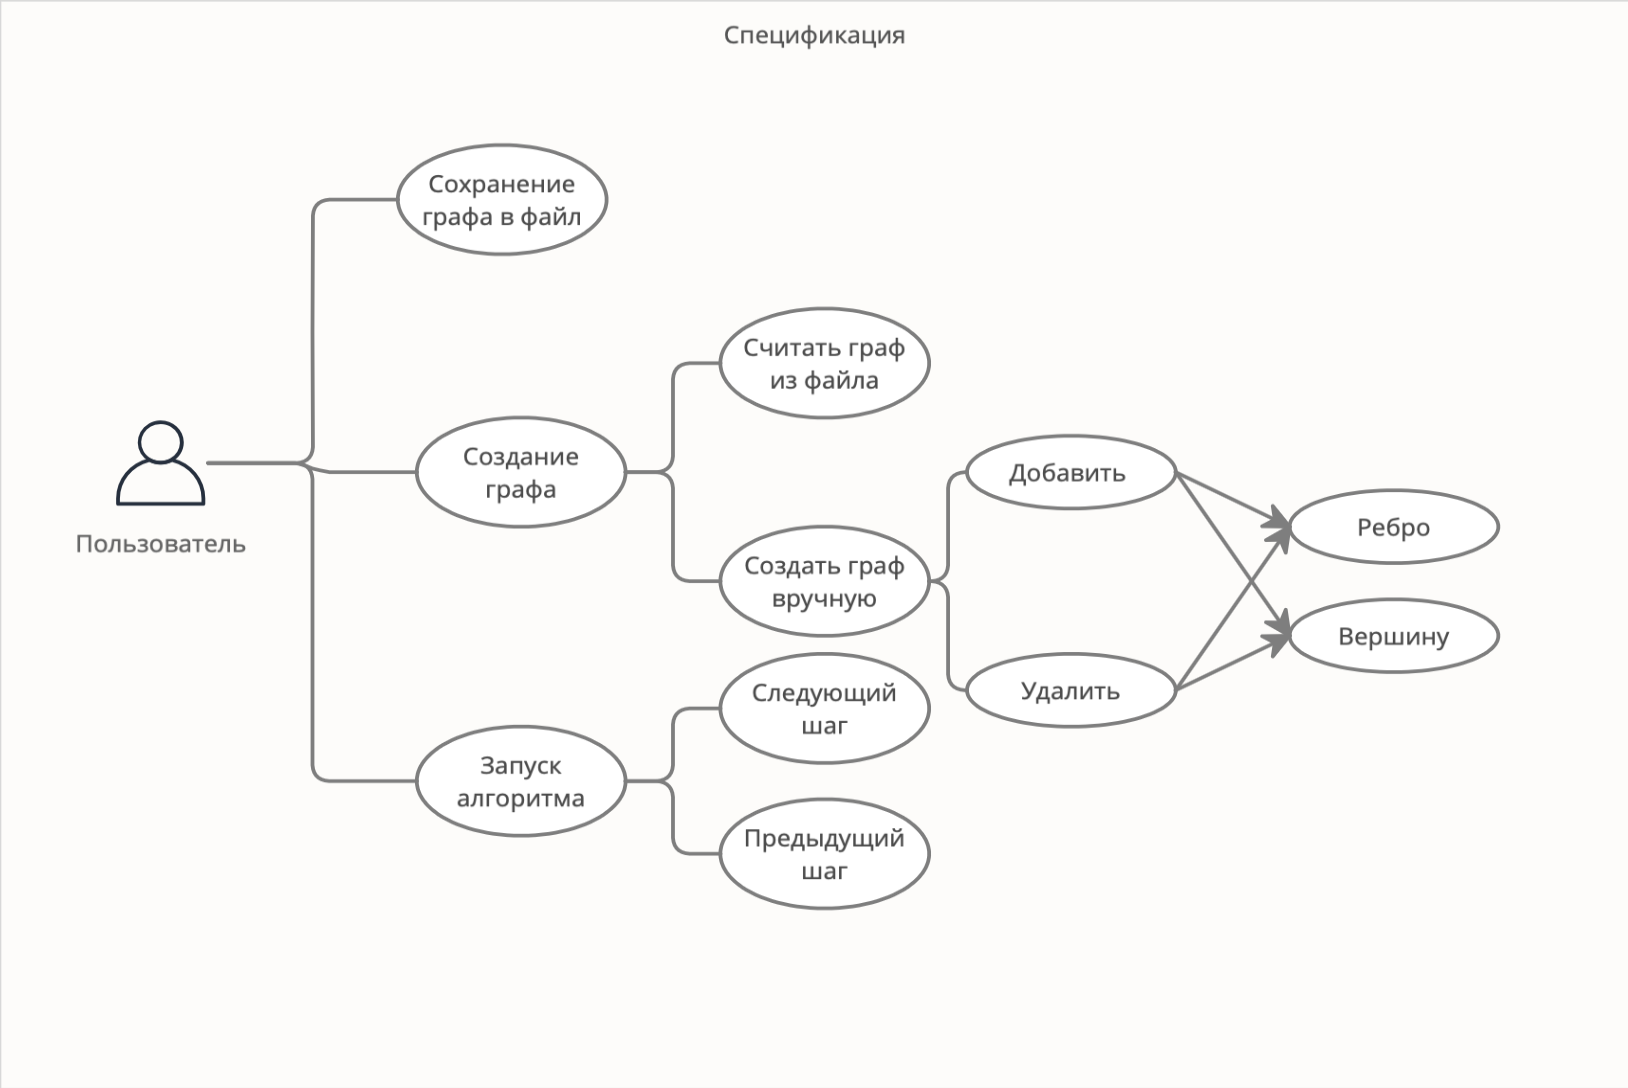
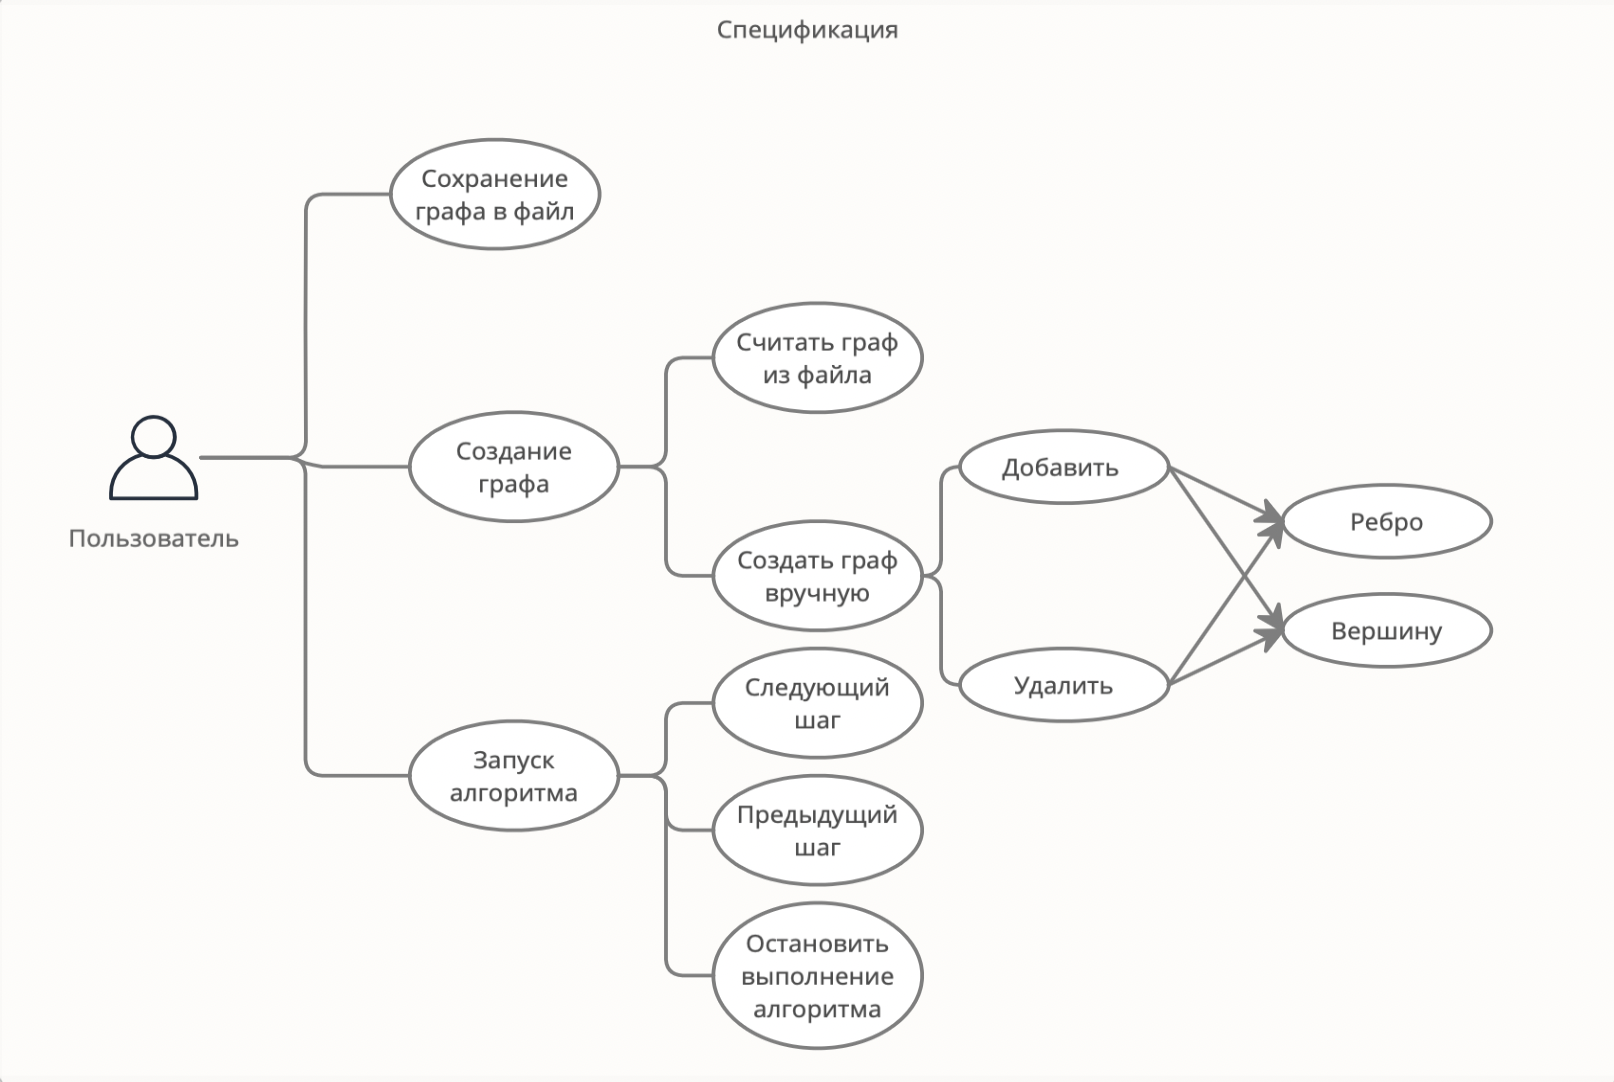
update specification + add prototype

diff --git a/src/com/company/GUI.java b/src/com/company/GUI.java
@@ -1,0 +1,143 @@
+package com.company;
+
+import javax.swing.*;
+import javax.swing.border.LineBorder;
+import javax.swing.text.DefaultEditorKit;
+import java.awt.*;
+
+
+public class GUI extends JFrame {
+    private JPanel main_panel;
+    private JPanel graph_panel;
+    private JLabel status_text;
+    private int window_width;
+    private int window_height;
+
+    public GUI() {
+        super("Алгоритм Дейкстры");
+        set_ui();
+        this.pack();
+        this.setVisible(true);
+    }
+
+    private void set_ui() {
+        Dimension screenSize = Toolkit.getDefaultToolkit().getScreenSize();
+        this.window_width = (int)screenSize.getWidth();
+        this.window_height = (int)screenSize.getHeight();
+
+        setMinimumSize(new Dimension(this.window_width/2, this.window_height/2));
+        setDefaultCloseOperation(JFrame.EXIT_ON_CLOSE);
+
+        init_main_panel();
+    }
+
+    private void init_main_panel() {
+        main_panel = new JPanel();
+        main_panel.setLayout(new BoxLayout(main_panel, BoxLayout.X_AXIS));
+        main_panel.add(init_graph_panel());
+        add(main_panel);
+        add(init_tool_bar(), BorderLayout.WEST);
+        add(init_status_panel(), BorderLayout.SOUTH);
+        setJMenuBar(init_menu());
+    }
+
+
+    private JPanel init_graph_panel() {
+        graph_panel = new JPanel();
+        graph_panel.setBackground(Color.WHITE);
+        graph_panel.setBorder(new LineBorder(new Color(230, 230, 230)));
+        return graph_panel;
+    }
+
+
+    private JPanel init_status_panel() {
+        JPanel statusPanel = new JPanel();
+        statusPanel.setPreferredSize(new Dimension(getWidth(), 42));
+        statusPanel.setLayout(new BoxLayout(statusPanel, BoxLayout.X_AXIS));
+        status_text = new JLabel("   ...");
+        status_text.setHorizontalAlignment(SwingConstants.LEFT);
+        statusPanel.add(status_text);
+
+        return statusPanel;
+    }
+
+
+    private JMenu init_file_menu() {
+        JMenu fileMenu = new JMenu("Файл");
+        JMenuItem read = new JMenuItem("Открыть файл");
+        JMenuItem save = new JMenuItem("Сохранить");
+        JMenuItem save_as = new JMenuItem("Сохранить как");
+        JMenuItem exit = new JMenuItem("Выход");
+
+        exit.addActionListener( actionEvent -> {
+            System.exit(0);
+        });
+
+        fileMenu.add(read);
+        fileMenu.add(save);
+        fileMenu.add(save_as);
+        fileMenu.addSeparator();
+        fileMenu.add(exit);
+
+        return fileMenu;
+    }
+
+    private JMenuBar init_menu() {
+        JMenuBar menuBar = new JMenuBar();
+        menuBar.add(init_file_menu());
+        menuBar.add(init_info_menu());
+        return menuBar;
+    }
+
+    private JMenu init_info_menu() {
+        JMenu info = new JMenu("Информация");
+        JMenuItem how_to_use = new JMenuItem("Руководство пользователя");
+        info.add(how_to_use);
+
+        return info;
+    }
+
+    private JToolBar init_tool_bar() {
+        JToolBar tool_bar = new JToolBar(1);
+        JButton create_graph = new JButton("Создать граф");
+        JButton save_graph = new JButton("Сохранить граф");
+        JButton run_algorithm = new JButton("Запустить алгоритм");
+        JButton next_step = new JButton("Следующий шаг");
+        JButton prev_step = new JButton("Предыдущий шаг");
+        JButton stop_alg = new JButton("Отановить");
+        tool_bar.setFloatable(false);
+
+        next_step.setVisible(false);
+        prev_step.setVisible(false);
+        stop_alg.setVisible(false);
+
+        tool_bar.addSeparator(new Dimension(5, 5));
+        tool_bar.add(create_graph);
+        tool_bar.addSeparator(new Dimension(5, 5));
+        tool_bar.add(save_graph);
+        tool_bar.addSeparator(new Dimension(5, 5));
+        tool_bar.add(run_algorithm);
+
+        tool_bar.addSeparator(new Dimension(5, 80));
+        tool_bar.add(next_step);
+        tool_bar.addSeparator(new Dimension(5, 5));
+        tool_bar.add(prev_step);
+        tool_bar.addSeparator(new Dimension(5, 5));
+        tool_bar.add(stop_alg);
+
+
+        run_algorithm.addActionListener(e -> {
+            next_step.setVisible(true);
+            prev_step.setVisible(true);
+            stop_alg.setVisible(true);
+        });
+
+        stop_alg.addActionListener(e -> {
+            next_step.setVisible(false);
+            prev_step.setVisible(false);
+            stop_alg.setVisible(false);
+        });
+
+        return tool_bar;
+    }
+}

diff --git a/src/DPQ.java b/src/DPQ.java
@@ -1,0 +1,87 @@
+import java.util.*;
+
+public class DPQ {
+    private final int[] dist;
+    private final Set<Integer> settled;
+    private final PriorityQueue<Node> pq;
+    private final int V;
+    List<List<Node> > adj;
+
+    public DPQ(int V)
+    {
+        this.V = V;
+        dist = new int[V];
+        settled = new HashSet<>();
+        pq = new PriorityQueue<>(V, new Node());
+    }
+
+    public void dijkstra(List<List<Node> > adj, int src)
+    {
+        this.adj = adj;
+
+        for (int i = 0; i < V; i++)
+            dist[i] = Integer.MAX_VALUE;
+
+        pq.add(new Node(src, 0));
+
+        dist[src] = 0;
+        while (settled.size() != V) {
+            if(pq.isEmpty())
+                return ;
+            int u = pq.remove().node;
+
+            settled.add(u);
+
+            e_Neighbours(u);
+        }
+    }
+
+    private void e_Neighbours(int u)
+    {
+        int edgeDistance;
+        int newDistance;
+
+        for (int i = 0; i < adj.get(u).size(); i++) {
+            Node v = adj.get(u).get(i);
+
+            if (!settled.contains(v.node)) {
+                edgeDistance = v.cost;
+                newDistance = dist[u] + edgeDistance;
+
+                if (newDistance < dist[v.node])
+                    dist[v.node] = newDistance;
+
+                pq.add(new Node(v.node, dist[v.node]));
+            }
+        }
+    }
+
+    public static void main(String[] arg)
+    {
+        int V = 5;
+        int source = 0;
+
+        List<List<Node> > adj = new ArrayList<>();
+
+        for (int i = 0; i < V; i++) {
+            List<Node> item = new ArrayList<>();
+            adj.add(item);
+        }
+
+        adj.get(0).add(new Node(1, 9));
+        adj.get(0).add(new Node(2, 6));
+        adj.get(0).add(new Node(3, 5));
+        adj.get(0).add(new Node(4, 3));
+
+        adj.get(2).add(new Node(1, 2));
+        adj.get(2).add(new Node(3, 4));
+
+        DPQ dpq = new DPQ(V);
+        dpq.dijkstra(adj, source);
+
+        System.out.println("The shorted path from node :");
+        for (int i = 0; i < dpq.dist.length; i++)
+            System.out.println(source + " to " + i + " is "
+                    + dpq.dist[i]);
+    }
+}

diff --git a/src/Node.java b/src/Node.java
@@ -1,0 +1,22 @@
+import java.util.Comparator;
+
+public class Node implements Comparator<Node> {
+    public int node;
+    public int cost;
+
+    public Node()
+    {
+    }
+
+    public Node(int node, int cost)
+    {
+        this.node = node;
+        this.cost = cost;
+    }
+
+    @Override
+    public int compare(Node node1, Node node2)
+    {
+        return Integer.compare(node1.cost, node2.cost);
+    }
+}

diff --git a/src/com/company/Main.java b/src/com/company/Main.java
@@ -1,0 +1,8 @@
+package com.company;
+
+public class Main {
+    public static void main(String[] args) {
+        GUI app = new GUI();
+//        app.setVisible(true);
+    }
+}
